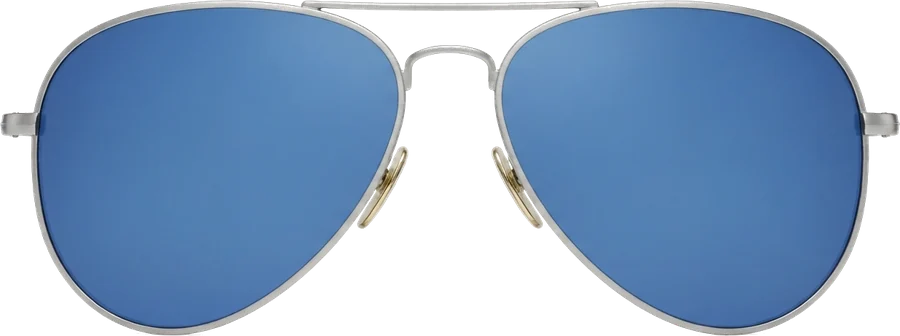
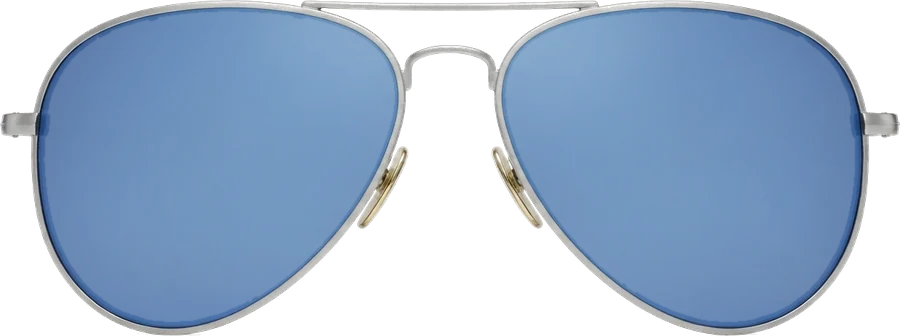
Provador mais realista: movimento suavizado, apoio na ponte do nariz, sombra, luz ajustada e lentes levemente transparentes

diff --git a/assets/js/provador.js b/assets/js/provador.js
@@ -26,8 +26,8 @@
   const AJUSTE = 1.12;
   // zoom máximo da câmera em tela cheia (1 = imagem inteira, sem corte)
   const ZOOM_MAX = 1.2;
-  // imagem real (PNG recortado): largura total do óculos em relação à distância entre os olhos
-  const LARGURA_REAL = 2.3;
+  // largura total do óculos em relação à largura do rosto (têmpora a têmpora)
+  const LARGURA_ROSTO = 1.0;
   // altura dos olhos dentro da imagem real (0 = topo da armação, 1 = base)
   const OLHO_ALTURA = 0.42;
   const PASTA_REAL = new URL('images/provador/', BASE).href;
@@ -127,28 +127,87 @@
     return { x: (espelhar ? 1 - x : x) * w, y: y * h, z: z * w };   // z do MediaPipe usa a mesma escala do x
   }
 
-  function desenharOculos(pts, w, h, espelhar) {
+  /* Filtro "One Euro": segura os tremores pequenos dos pontos do rosto sem atrasar
+     os movimentos de verdade (quanto mais rápido o movimento, menos suaviza). */
+  function filtro(minCorte = 1.2, beta = 0.02, dCorte = 1.0) {
+    let xAnt = null, dxAnt = 0, tAnt = 0;
+    const alfa = (corte, dt) => { const r = 2 * Math.PI * corte * dt; return r / (r + 1); };
+    return (x, t) => {
+      if (xAnt === null) { xAnt = x; tAnt = t; return x; }
+      const dt = Math.max((t - tAnt) / 1000, 1e-3); tAnt = t;
+      const dx = (x - xAnt) / dt;
+      dxAnt += alfa(dCorte, dt) * (dx - dxAnt);
+      const corte = minCorte + beta * Math.abs(dxAnt);
+      xAnt += alfa(corte, dt) * (x - xAnt);
+      return xAnt;
+    };
+  }
+  let filtros = null;
+  function zerarFiltros() {
+    filtros = { x: filtro(), y: filtro(), larg: filtro(0.8, 0.004), ang: filtro(1.5, 0.3), achatar: filtro(0.8, 0.3) };
+  }
+
+  const ponto = (p, w, h, espelhar) => ({ x: (espelhar ? 1 - p.x : p.x) * w, y: p.y * h, z: p.z * w });
+
+  // luz do ambiente: medida no rosto de tempos em tempos para escurecer/clarear o óculos
+  const amostra = document.createElement('canvas');
+  amostra.width = amostra.height = 12;
+  const actx = amostra.getContext('2d', { willReadFrequently: true });
+  let brilho = 1, quadros = 0;
+  function medirLuz(cx, cy, tam) {
+    try {
+      actx.drawImage(canvas, cx - tam / 2, cy - tam * 0.2, tam, tam * 0.6, 0, 0, 12, 12);
+      const d = actx.getImageData(0, 0, 12, 12).data;
+      let soma = 0;
+      for (let i = 0; i < d.length; i += 4) soma += 0.299 * d[i] + 0.587 * d[i + 1] + 0.114 * d[i + 2];
+      const luz = soma / (d.length / 4) / 255;                 // 0 (escuro) a 1 (claro)
+      const alvo = Math.min(1.06, Math.max(0.62, 0.5 + luz * 0.75));
+      brilho += (alvo - brilho) * 0.3;
+    } catch (e) { /* sem acesso aos pixels: mantém o brilho */ }
+  }
+
+  function desenharOculos(pts, w, h, espelhar, suavizar) {
     if (!pts || !oculosImg) return;
     let a = centroOlho(pts, OLHO_A, w, h, espelhar);
     let b = centroOlho(pts, OLHO_B, w, h, espelhar);
     if (a.x > b.x) [a, b] = [b, a];
-    const dist2d = Math.hypot(b.x - a.x, b.y - a.y);
-    // distância real entre os olhos (com profundidade): com a cabeça virada, a distância
-    // na tela "encolhe"; o tamanho usa a real e o óculos é achatado na horizontal
-    const dist = Math.max(dist2d, Math.hypot(b.x - a.x, b.y - a.y, b.z - a.z));
-    const achatar = Math.max(0.55, dist2d / dist);
-    const ang = Math.atan2(b.y - a.y, b.x - a.x);
+    // largura do rosto (têmpora a têmpora) com profundidade: referência de tamanho estável
+    const t1 = ponto(pts[234], w, h, espelhar), t2 = ponto(pts[454], w, h, espelhar);
+    const rosto2d = Math.hypot(t2.x - t1.x, t2.y - t1.y);
+    const rosto3d = Math.max(rosto2d, Math.hypot(t2.x - t1.x, t2.y - t1.y, t2.z - t1.z));
+    // apoio: ponte do nariz (ponto 168) na horizontal, linha dos olhos na vertical
+    const ponte = ponto(pts[168], w, h, espelhar);
+    let cx = (ponte.x + (a.x + b.x) / 2) / 2;
+    let cy = (a.y + b.y) / 2;
+    let ang = Math.atan2(b.y - a.y, b.x - a.x);
+    let larg = rosto3d;
+    let achatar = Math.max(0.55, rosto2d / rosto3d);
+    if (suavizar) {
+      if (!filtros) zerarFiltros();
+      const t = performance.now();
+      cx = filtros.x(cx, t); cy = filtros.y(cy, t); larg = filtros.larg(larg, t);
+      ang = filtros.ang(ang, t); achatar = filtros.achatar(achatar, t);
+      if (++quadros % 8 === 1) medirLuz(cx, cy, larg * 0.5);
+    } else {
+      medirLuz(cx, cy, larg * 0.5);
+    }
+    // largura total do óculos (px) a partir da largura do rosto
+    const lw = larg * LARGURA_ROSTO;
     ctx.save();
-    ctx.translate((a.x + b.x) / 2, (a.y + b.y) / 2);
+    // sombra suave da armação no rosto (luz vindo de cima)
+    ctx.shadowColor = 'rgba(25, 15, 10, 0.38)';
+    ctx.shadowBlur = lw * 0.025;
+    ctx.shadowOffsetY = lw * 0.022;
+    if ('filter' in ctx) ctx.filter = `brightness(${brilho.toFixed(3)}) saturate(0.95)`;
+    ctx.translate(cx, cy);
     ctx.rotate(ang);
     ctx.scale(achatar, 1);
     if (oculosImg.real) {
-      // foto recortada: a largura total acompanha a distância entre os olhos
-      const lw = dist * LARGURA_REAL, lh = oculosImg.img.height * lw / oculosImg.img.width;
+      const lh = oculosImg.img.height * lw / oculosImg.img.width;
       ctx.drawImage(oculosImg.img, -lw / 2, -lh * OLHO_ALTURA, lw, lh);
     } else {
       const dx = DX[produto.formato] || 64;
-      const esc = AJUSTE * dist / (2 * dx);               // unidades do desenho -> pixels
+      const esc = lw / (2 * (dx + 80));                       // largura do desenho: lentes ±dx + hastes
       ctx.scale(esc, esc);
       ctx.drawImage(oculosImg.img, -200, -100, 400, 200);
     }
@@ -199,8 +258,8 @@
       ultimoTempo = agora;
       const r = landmarker.detectForVideo(video, agora);
       const pts = r.faceLandmarks && r.faceLandmarks[0];
-      if (pts) { desenharOculos(pts, w, h, true); enquadrar(pts); esconderStatus(); }
-      else mostrarStatus('Posicione o rosto de frente para a câmera');
+      if (pts) { desenharOculos(pts, w, h, true, true); enquadrar(pts); esconderStatus(); }
+      else { zerarFiltros(); mostrarStatus('Posicione o rosto de frente para a câmera'); }
       pintarFundo();
     }
     loop = requestAnimationFrame(quadroCamera);
@@ -213,7 +272,7 @@
     const w = Math.round(foto.width * s), h = Math.round(foto.height * s);
     canvas.width = w; canvas.height = h;
     ctx.drawImage(foto, 0, 0, w, h);
-    desenharOculos(pontosFoto, w, h, false);
+    desenharOculos(pontosFoto, w, h, false, false);
     pintarFundo();
   }
 

diff --git a/tools/preparar-provador.py b/tools/preparar-provador.py
@@ -35,6 +35,9 @@ ENTRADA = sys.argv[1] if len(sys.argv) > 1 else os.path.join(os.path.dirname(SIT
 LARGURA_MAX = 900
 TOLERANCIA = 28          # diferença de cor aceita como "fundo"
 # armações claras pedem tolerância menor para não serem apagadas junto com o fundo
+# lentes: quanto fica visível (1 = opaca). 0.82 deixa o olho aparecer de leve
+ALFA_LENTE = 0.82
+LIMITE_BORDA = 22        # força de borda que separa a lente da armação
 TOLERANCIA_POR_ID = {'cat-eye-branco': 8, 'quadrado-cristal': 14}
 
 
@@ -67,9 +70,9 @@ def remover_fundo(im, tol=TOLERANCIA):
     # buracos internos: grandes o suficiente e praticamente da cor exata do fundo
     tam = ndimage.sum(np.ones_like(rotulos), rotulos, index=np.arange(1, n + 1))
     media = ndimage.mean(dist, rotulos, index=np.arange(1, n + 1))
-    for i in range(n):
-        if (i + 1) not in na_borda and tam[i] >= 150 and media[i] <= tol * 0.35:
-            fundo |= rotulos == (i + 1)
+    internos = [i + 1 for i in range(n) if (i + 1) not in na_borda and tam[i] >= 150 and media[i] <= tol * 0.35]
+    if internos:
+        fundo |= np.isin(rotulos, internos)
     alfa = np.where(fundo, 0.0, 1.0)
     # faixa de 2 px em volta do fundo: transparência proporcional à diferença de cor
     faixa = ndimage.binary_dilation(fundo, iterations=2) & ~fundo
@@ -77,6 +80,40 @@ def remover_fundo(im, tol=TOLERANCIA):
     saida = im.convert('RGBA')
     saida.putalpha(Image.fromarray((alfa * 255).astype(np.uint8), 'L'))
     return saida
+
+
+def lentes_translucidas(im, alfa_lente=ALFA_LENTE):
+    """Acha a área das lentes (regiões lisas, sem bordas fortes, no meio de cada metade
+    do óculos) e deixa essas áreas levemente transparentes, como numa lente de verdade."""
+    import numpy as np
+    from scipy import ndimage
+    a = np.asarray(im).astype(np.float32)
+    rgb, alfa = a[..., :3], a[..., 3]
+    cinza = rgb.mean(axis=2)
+    suave = ndimage.gaussian_filter(cinza, 1.2)
+    borda = np.hypot(ndimage.sobel(suave, 0), ndimage.sobel(suave, 1))
+    liso = (borda < LIMITE_BORDA) & (alfa > 250)
+    rotulos, _ = ndimage.label(liso)
+    h, w = cinza.shape
+    lente = np.zeros_like(liso)
+    for fx in (0.27, 0.73):
+        for fy in (0.45, 0.55, 0.38):
+            rot = rotulos[int(h * fy), int(w * fx)]
+            if rot:
+                comp = rotulos == rot
+                if comp.sum() > 0.04 * h * w:      # só regiões grandes (lente, não um detalhe da armação)
+                    lente |= comp
+                    break
+    if not lente.any():
+        return im, 0.0
+    lente = ndimage.binary_fill_holes(lente)                    # inclui os reflexos de luz
+    lente = ndimage.binary_erosion(lente, iterations=2)         # não encosta na armação
+    novo_alfa = np.where(lente, np.minimum(alfa, 255 * alfa_lente), alfa)
+    novo_alfa = ndimage.gaussian_filter(novo_alfa, 0.7)
+    novo_alfa = np.where(alfa < 250, alfa, novo_alfa)
+    saida = im.copy()
+    saida.putalpha(Image.fromarray(novo_alfa.clip(0, 255).astype(np.uint8), 'L'))
+    return saida, float(lente.mean())
 
 
 def preparar(caminho, destino, tol=TOLERANCIA):
@@ -91,6 +128,7 @@ def preparar(caminho, destino, tol=TOLERANCIA):
     im = im.crop(caixa)
     if im.width > LARGURA_MAX:
         im = im.resize((LARGURA_MAX, round(im.height * LARGURA_MAX / im.width)), Image.LANCZOS)
+    im, _ = lentes_translucidas(im)
     im.save(destino, 'WEBP', quality=86, method=6)   # WebP com transparência: bem mais leve que PNG
     return im.size
 

diff --git a/README.md b/README.md
@@ -49,4 +49,5 @@ Ao trocar de endereço, atualize `siteUrl` em `products.js`, rode `node tools/ge
 - Abre pelo ícone de óculos no card, pelo botão na visualização rápida, ou com `index.html?provar=<id do produto>` (usado nas páginas de produto).
 - Imagem do óculos: se existir `assets/images/provador/<id>.webp` (listado em `lista.json`), o provador usa a imagem real; senão usa a ilustração do `glasses-art.js`.
 - Para adicionar imagens reais: salve as imagens de frente na pasta `fotos-provador` (ao lado de `site`) com o nome igual ao ID e rode `python site/tools/preparar-provador.py`. Ele tira o fundo liso, corta, reduz e atualiza a `lista.json`. Prompts em `docs/prompts-provador.md`.
-- Ajuste fino da posição: `LARGURA_REAL` (largura do óculos x distância entre os olhos) e `OLHO_ALTURA` no topo do `provador.js`.
+- Ajuste fino: `LARGURA_ROSTO` (largura do óculos x largura do rosto) e `OLHO_ALTURA` no topo do `provador.js`; `ALFA_LENTE` (transparência das lentes) no `preparar-provador.py`.
+- Realismo: movimento suavizado (filtro One Euro), apoio na ponte do nariz, sombra da armação e brilho ajustado à luz da câmera.
